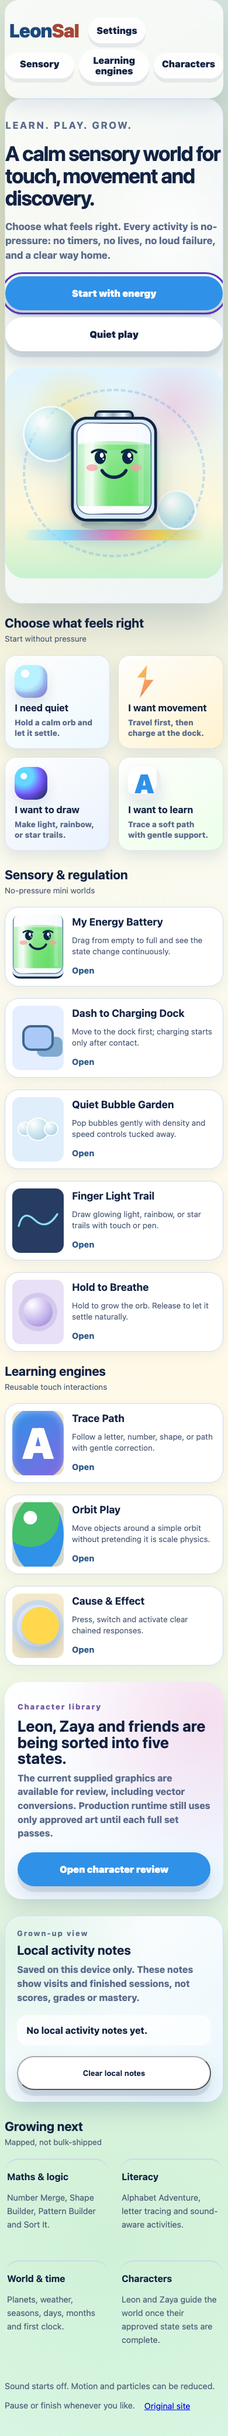
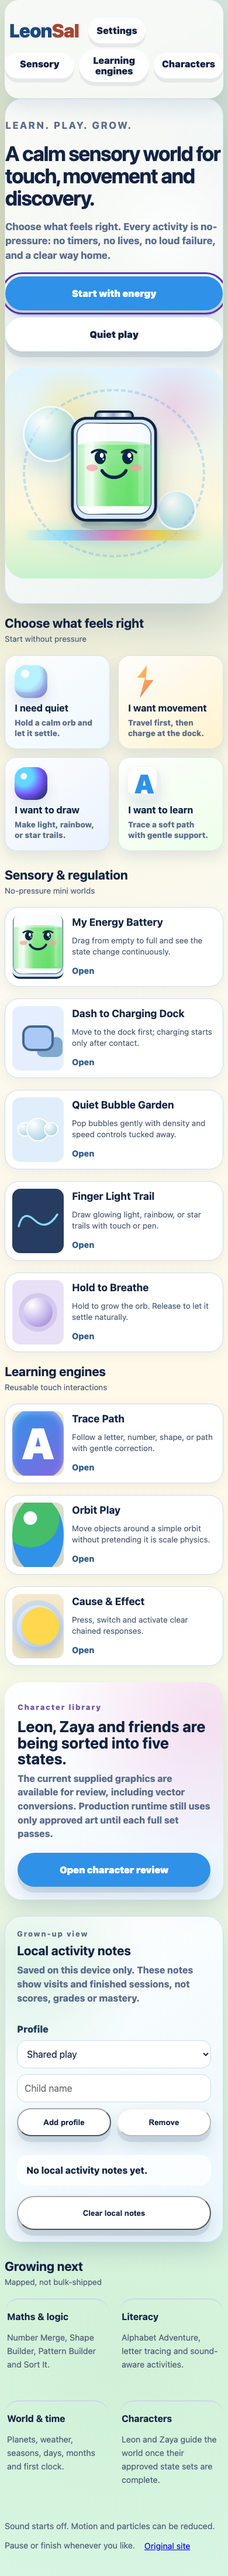
Add local V2 child profiles

diff --git a/v2-engine.js b/v2-engine.js
@@ -1075,6 +1075,65 @@ const LeonSalV2 = (() => {
     }
   }
 
+  class LocalProfileEngine extends EventBus {
+    constructor(key = 'leonsal-v2-local-profiles') {
+      super();
+      this.key = key;
+      this.value = {
+        activeId: 'default',
+        profiles: [{ id: 'default', name: 'Shared play' }]
+      };
+      this.load();
+    }
+    load() {
+      try {
+        const saved = JSON.parse(localStorage.getItem(this.key) || '{}');
+        if (saved && typeof saved === 'object') {
+          const profiles = Array.isArray(saved.profiles) ? saved.profiles.filter((profile) => profile?.id && profile?.name) : [];
+          this.value = {
+            activeId: saved.activeId || profiles[0]?.id || 'default',
+            profiles: profiles.length ? profiles : this.value.profiles
+          };
+        }
+      } catch (_error) {
+        /* Local profiles are optional. */
+      }
+      if (!this.value.profiles.some((profile) => profile.id === this.value.activeId)) this.value.activeId = this.value.profiles[0].id;
+    }
+    save() {
+      try { localStorage.setItem(this.key, JSON.stringify(this.value)); } catch (_error) { /* optional */ }
+      this.emit('save', this.value);
+    }
+    activeProfile() {
+      return this.value.profiles.find((profile) => profile.id === this.value.activeId) || this.value.profiles[0];
+    }
+    progressKey(id = this.value.activeId) {
+      return id === 'default' ? 'leonsal-v2-profile-progress' : `leonsal-v2-profile-progress:${id}`;
+    }
+    setActive(id) {
+      if (!this.value.profiles.some((profile) => profile.id === id)) return;
+      this.value.activeId = id;
+      this.save();
+    }
+    add(name) {
+      const clean = String(name || '').trim().replace(/\s+/g, ' ').slice(0, 24);
+      if (!clean) return null;
+      const id = `profile-${Date.now().toString(36)}-${Math.random().toString(36).slice(2, 7)}`;
+      this.value.profiles.push({ id, name: clean });
+      this.value.activeId = id;
+      this.save();
+      return id;
+    }
+    remove(id) {
+      if (id === 'default') return false;
+      this.value.profiles = this.value.profiles.filter((profile) => profile.id !== id);
+      try { localStorage.removeItem(this.progressKey(id)); } catch (_error) { /* optional */ }
+      if (!this.value.profiles.some((profile) => profile.id === this.value.activeId)) this.value.activeId = 'default';
+      this.save();
+      return true;
+    }
+  }
+
   class HintFeedbackEngine extends EventBus {
     constructor(options = {}) {
       super();
@@ -1130,6 +1189,7 @@ const LeonSalV2 = (() => {
     AssetLoaderEngine,
     PerformanceMonitorEngine,
     ProfileProgressStoreEngine,
+    LocalProfileEngine,
     HintFeedbackEngine,
     SettingsPanel,
     clamp,

diff --git a/v2-proofs.css b/v2-proofs.css
@@ -17,6 +17,7 @@
 }
 
 * { box-sizing: border-box; }
+.visually-hidden { position: absolute !important; width: 1px !important; height: 1px !important; padding: 0 !important; margin: -1px !important; overflow: hidden !important; clip: rect(0 0 0 0) !important; white-space: nowrap !important; border: 0 !important; }
 body {
   margin: 0;
   min-height: 100vh;
@@ -1219,6 +1220,10 @@ body[data-calm="true"] .trail-starscape, body[data-calm="true"] .battery-spark, 
 .planned-worlds p, .world-shell footer { font-size: .9rem; color: #52617a; line-height: 1.6; }
 .world-shell footer { margin-top: 38px; }
 .world-shell footer a { min-height: 44px; display: inline-flex; align-items: center; padding: 0 10px; margin-left: 2px; }
+.local-profile-tools { display: grid; grid-template-columns: auto minmax(130px, 1fr) minmax(120px, 1fr) auto auto; gap: 10px; align-items: center; margin: 14px 0; }
+.local-profile-tools label { font-weight: 900; color: #25405f; }
+.local-profile-tools select, .local-profile-tools input { min-height: 48px; border: 1px solid #cddbec; border-radius: 16px; padding: 0 12px; font: inherit; background: #fff; color: var(--ink); }
+.local-profile-tools button { min-height: 48px; }
 .offline-shell { min-height: 100svh; display: grid; place-items: center; padding-top: 24px; }
 .offline-card { width: min(640px, 100%); border-radius: 34px; padding: clamp(28px, 8vw, 54px); background: rgba(255,255,255,.9); box-shadow: var(--deep-shadow); text-align: center; }
 .offline-card h1 { margin: 8px 0 10px; font-size: clamp(2rem, 7vw, 4rem); line-height: .98; letter-spacing: 0; }
@@ -1226,6 +1231,8 @@ body[data-calm="true"] .trail-starscape, body[data-calm="true"] .battery-spark, 
 @media (max-width: 760px) { .world-games { grid-template-columns: repeat(2, 1fr); } .planned-worlds { grid-template-columns: repeat(2, 1fr); } .world-section-heading { align-items: start; flex-direction: column; gap: 6px; } }
 @media (max-width: 480px) { .world-games { grid-template-columns: 1fr; } .world-header { gap: 8px; flex-wrap: wrap; } .world-header > a:last-child { margin-left: 0; } .world-welcome { padding-top: 16px; } .session-controls { gap: 6px; } .session-controls a, .session-controls button { padding: 10px 16px; } }
 @media (max-width: 480px) {
+  .local-profile-tools { grid-template-columns: 1fr 1fr; }
+  .local-profile-tools label, .local-profile-tools select, .local-profile-tools input { grid-column: 1 / -1; }
   .world-game { display: grid; grid-template-columns: 88px 1fr; column-gap: 14px; padding: 12px; }
   .world-game .game-art { grid-row: 1 / 4; height: 110px; align-self: center; }
   .world-game h3 { margin: 2px 0 6px; }

diff --git a/js/v2-home.js b/js/v2-home.js
@@ -18,7 +18,12 @@
 
   const progressHost = document.getElementById('progressSummary');
   const clearProgress = document.getElementById('clearProgress');
-  const profile = new LeonSalV2.ProfileProgressStoreEngine();
+  const localProfiles = new LeonSalV2.LocalProfileEngine();
+  let profile = new LeonSalV2.ProfileProgressStoreEngine(localProfiles.progressKey());
+  const profileSelect = document.getElementById('localProfile');
+  const newProfileName = document.getElementById('newProfileName');
+  const addProfile = document.getElementById('addProfile');
+  const removeProfile = document.getElementById('removeProfile');
   const gameNames = {
     'energy-battery': 'My Energy Battery',
     'dash-dock': 'Dash to Charging Dock',
@@ -46,8 +51,42 @@
       return `<article><strong>${gameNames[id] || id}</strong><span>${visits} visit${visits === 1 ? '' : 's'}${finished ? ' · finished once' : ''}</span></article>`;
     }).join('');
   };
+  const bindProfileStore = () => {
+    profile = new LeonSalV2.ProfileProgressStoreEngine(localProfiles.progressKey());
+    profile.on('save', renderProgress);
+    renderProgress();
+  };
+  const renderProfiles = () => {
+    if (!profileSelect) return;
+    profileSelect.replaceChildren(...localProfiles.value.profiles.map((item) => {
+      const option = document.createElement('option');
+      option.value = item.id;
+      option.textContent = item.name;
+      return option;
+    }));
+    profileSelect.value = localProfiles.value.activeId;
+    removeProfile.disabled = localProfiles.value.activeId === 'default';
+  };
+  renderProfiles();
   renderProgress();
   profile.on('save', renderProgress);
+  profileSelect?.addEventListener('change', () => {
+    localProfiles.setActive(profileSelect.value);
+    bindProfileStore();
+    renderProfiles();
+  });
+  addProfile?.addEventListener('click', () => {
+    if (!newProfileName.value.trim()) return;
+    localProfiles.add(newProfileName.value);
+    newProfileName.value = '';
+    bindProfileStore();
+    renderProfiles();
+  });
+  removeProfile?.addEventListener('click', () => {
+    localProfiles.remove(localProfiles.value.activeId);
+    bindProfileStore();
+    renderProfiles();
+  });
   clearProgress?.addEventListener('click', () => {
     profile.clear();
     renderProgress();

diff --git a/v2-home.html b/v2-home.html
@@ -89,6 +89,14 @@
         <h2 id="progress-title">Local activity notes</h2>
         <p>Saved on this device only. These notes show visits and finished sessions, not scores, grades or mastery.</p>
       </div>
+      <div class="local-profile-tools" aria-label="Local child profile controls">
+        <label for="localProfile">Profile</label>
+        <select id="localProfile"></select>
+        <label class="visually-hidden" for="newProfileName">New profile name</label>
+        <input id="newProfileName" type="text" maxlength="24" autocomplete="off" placeholder="Child name" aria-label="New profile name">
+        <button class="hub-secondary" id="addProfile" type="button">Add profile</button>
+        <button class="hub-secondary" id="removeProfile" type="button">Remove</button>
+      </div>
       <div class="progress-summary" id="progressSummary" aria-live="polite"></div>
       <button class="hub-secondary" id="clearProgress" type="button">Clear local notes</button>
     </section>

diff --git a/js/v2-game-shell.js b/js/v2-game-shell.js
@@ -15,7 +15,8 @@ class LeonSalGameShell {
     this.audio = audio;
     this.reset = reset;
     this.gameId = gameId;
-    this.profile = typeof LeonSalV2 !== 'undefined' ? new LeonSalV2.ProfileProgressStoreEngine() : null;
+    this.localProfiles = typeof LeonSalV2 !== 'undefined' ? new LeonSalV2.LocalProfileEngine() : null;
+    this.profile = typeof LeonSalV2 !== 'undefined' ? new LeonSalV2.ProfileProgressStoreEngine(this.localProfiles?.progressKey()) : null;
     this.paused = false;
     this.scene = document.querySelector('.game-scene');
     this.settingsPanel = document.querySelector('#settings');

diff --git a/docs/LEONSAL_COMPLETION_CHECKLIST.md b/docs/LEONSAL_COMPLETION_CHECKLIST.md
@@ -37,6 +37,7 @@
 - [x] Add route-level mobile performance smoke budget for current V2 activities at 390x844, including conservative FPS sampling and long-task observation.
 - [x] Add route-level mobile accessibility smoke for the V2 home, eight current V2 activities and the offline fallback at 390x844, including touch target size, accessible names, keyboard settings close, reduced-motion cap, labelled canvases, horizontal overflow and blocked-art request checks.
 - [x] Verify the internal character review surface in Chromium and WebKit across phone, tablet and desktop widths, including vector review derivatives, missing-state fallback, dark-background inspection, reference lazy-load and no review-art leakage into gameplay.
+- [x] Add local-only V2 child profile switching for caregiver activity notes, with separate per-profile storage, no score/mastery claims, no medical/sensory-label inference, and mobile browser smoke evidence.
 
 These changes remain preview work. They do not approve character art, claim production deployment, or complete all foundation contracts.
 
@@ -46,7 +47,7 @@ These changes remain preview work. They do not approve character art, claim prod
 - [ ] Complete full game-module preload/mount/start/pause/resume/reset/settings/destroy lifecycle, resource ownership, and repeat-route cleanup tests. The current shared session wrapper handles pause/finish but is not the entire module architecture.
 - [x] Bridge legacy and V2 sensory preference stores for core controls. V2 now validates and exposes motion, sound, voice, music, vibration, calm mode, particles, speed, contrast and pace; the legacy home reads/writes shared motion, sound, vibration and contrast settings. Independent audio levels and deeper profile migration remain outstanding.
 - [x] Implement and verify eight foundation engine contracts: memory-recall, physics-play, character-state-animation, world-shell-progress, asset-loader, performance-monitor, profile-progress-store, hint-feedback. These are foundation primitives, not completed games.
-- [ ] Complete parent/profile controls, full error recovery and full offline behaviour. Local V2 activity notes, a safe V2 route cache and a navigation-only offline fallback now avoid false saved/mastery claims, but multi-profile caregiver controls and full offline UX are not complete.
+- [ ] Complete parent/profile controls, full error recovery and full offline behaviour. Local V2 activity notes now support separate local child profiles, and the safe V2 route cache plus navigation-only offline fallback avoid false saved/mastery claims; full caregiver controls and full offline UX are still not complete.
 - [ ] Implement Sensory Mixer using global preference ceilings; presets do not count as games.
 - [ ] Verify repeated route transitions, background suspension, full accessibility and physical iPhone Safari. Viewport-emulated cleanup, accessibility and performance/long-task smoke checks now exist, but physical-device and full screen-reader evidence are still required.
 
